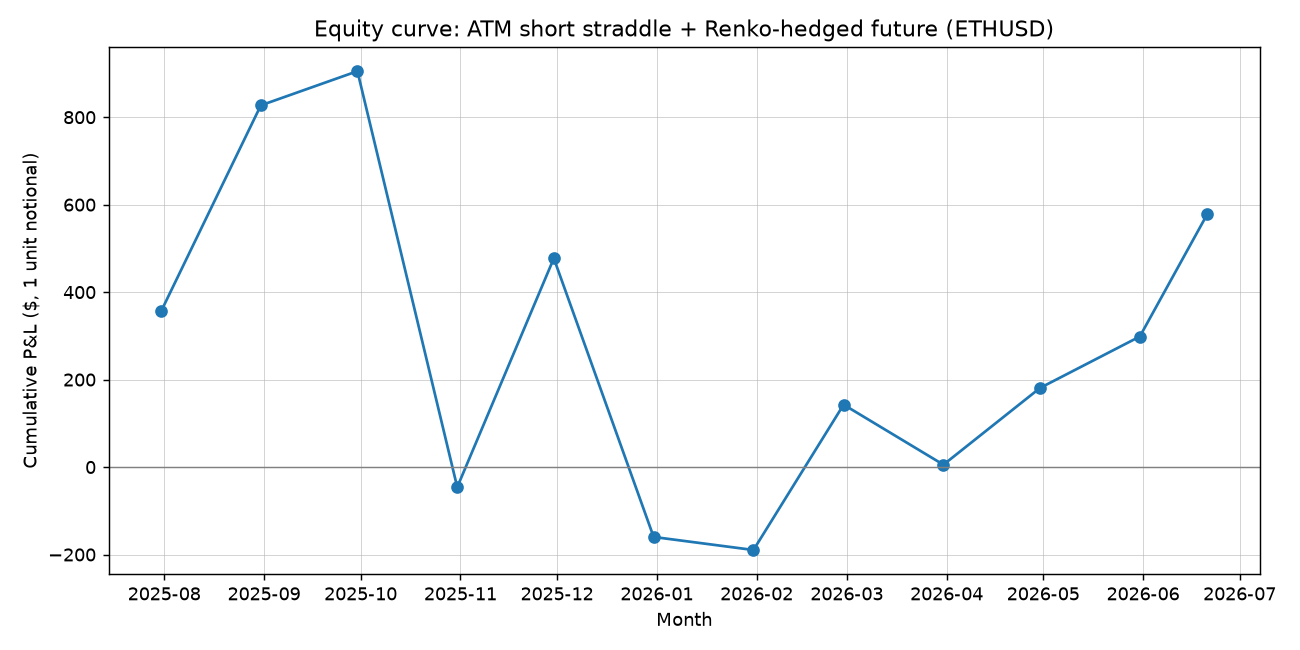
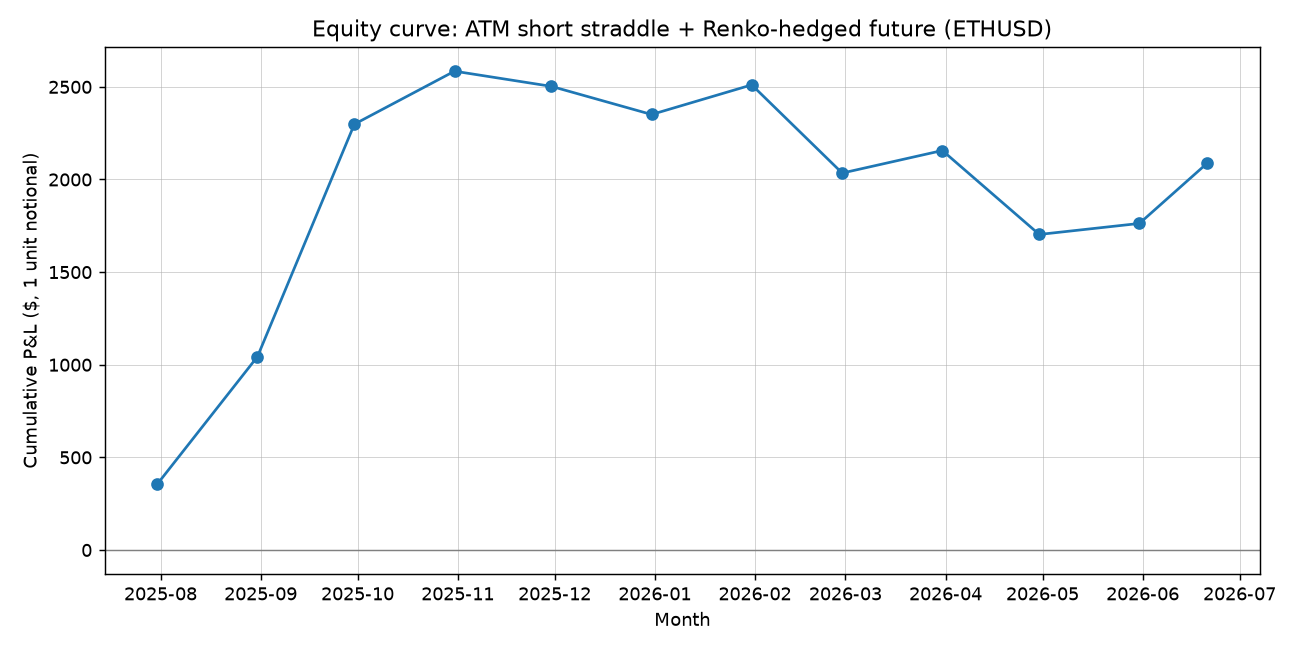
Flip hedge on every Renko signal change, not just on neutral-point crossings

diff --git a/backtest.py b/backtest.py
@@ -12,10 +12,8 @@ Rules
 - Renko signal (ATR-based brick size, computed from close-to-close ranges)
   is evaluated daily. On the initiation day, open 1 unit of future: long if
   Renko is up, short if Renko is down.
-- During the month, a flip in the Renko signal alone is ignored.
-- The hedge only flips when BOTH conditions hold:
-    long  -> short: price < neutral (the strike) AND Renko is down
-    short -> long : price > neutral (the strike) AND Renko is up
+- During the month, the hedge flips whenever the Renko signal flips
+  (long <-> short), regardless of where price sits relative to the strike.
 - At month end, options are cash-settled against intrinsic value, and any
   open hedge leg is closed at the settlement price.
 """
@@ -130,16 +128,12 @@ def run_backtest(dates, closes, signal):
         for i in idxs[1:]:
             price = closes[i]
             sig = signal[i]
-            if hedge_dir == 1 and price < strike and sig == -1:
+            if sig != hedge_dir:
                 hedge_pnl += hedge_dir * (price - hedge_entry)
-                hedge_dir = -1
+                label = "long->short" if hedge_dir == 1 else "short->long"
+                hedge_dir = sig
                 hedge_entry = price
-                switches.append((dates[i], "long->short", price))
-            elif hedge_dir == -1 and price > strike and sig == 1:
-                hedge_pnl += hedge_dir * (price - hedge_entry)
-                hedge_dir = 1
-                hedge_entry = price
-                switches.append((dates[i], "short->long", price))
+                switches.append((dates[i], label, price))
 
         settle = closes[idxs[-1]]
         hedge_pnl += hedge_dir * (settle - hedge_entry)
